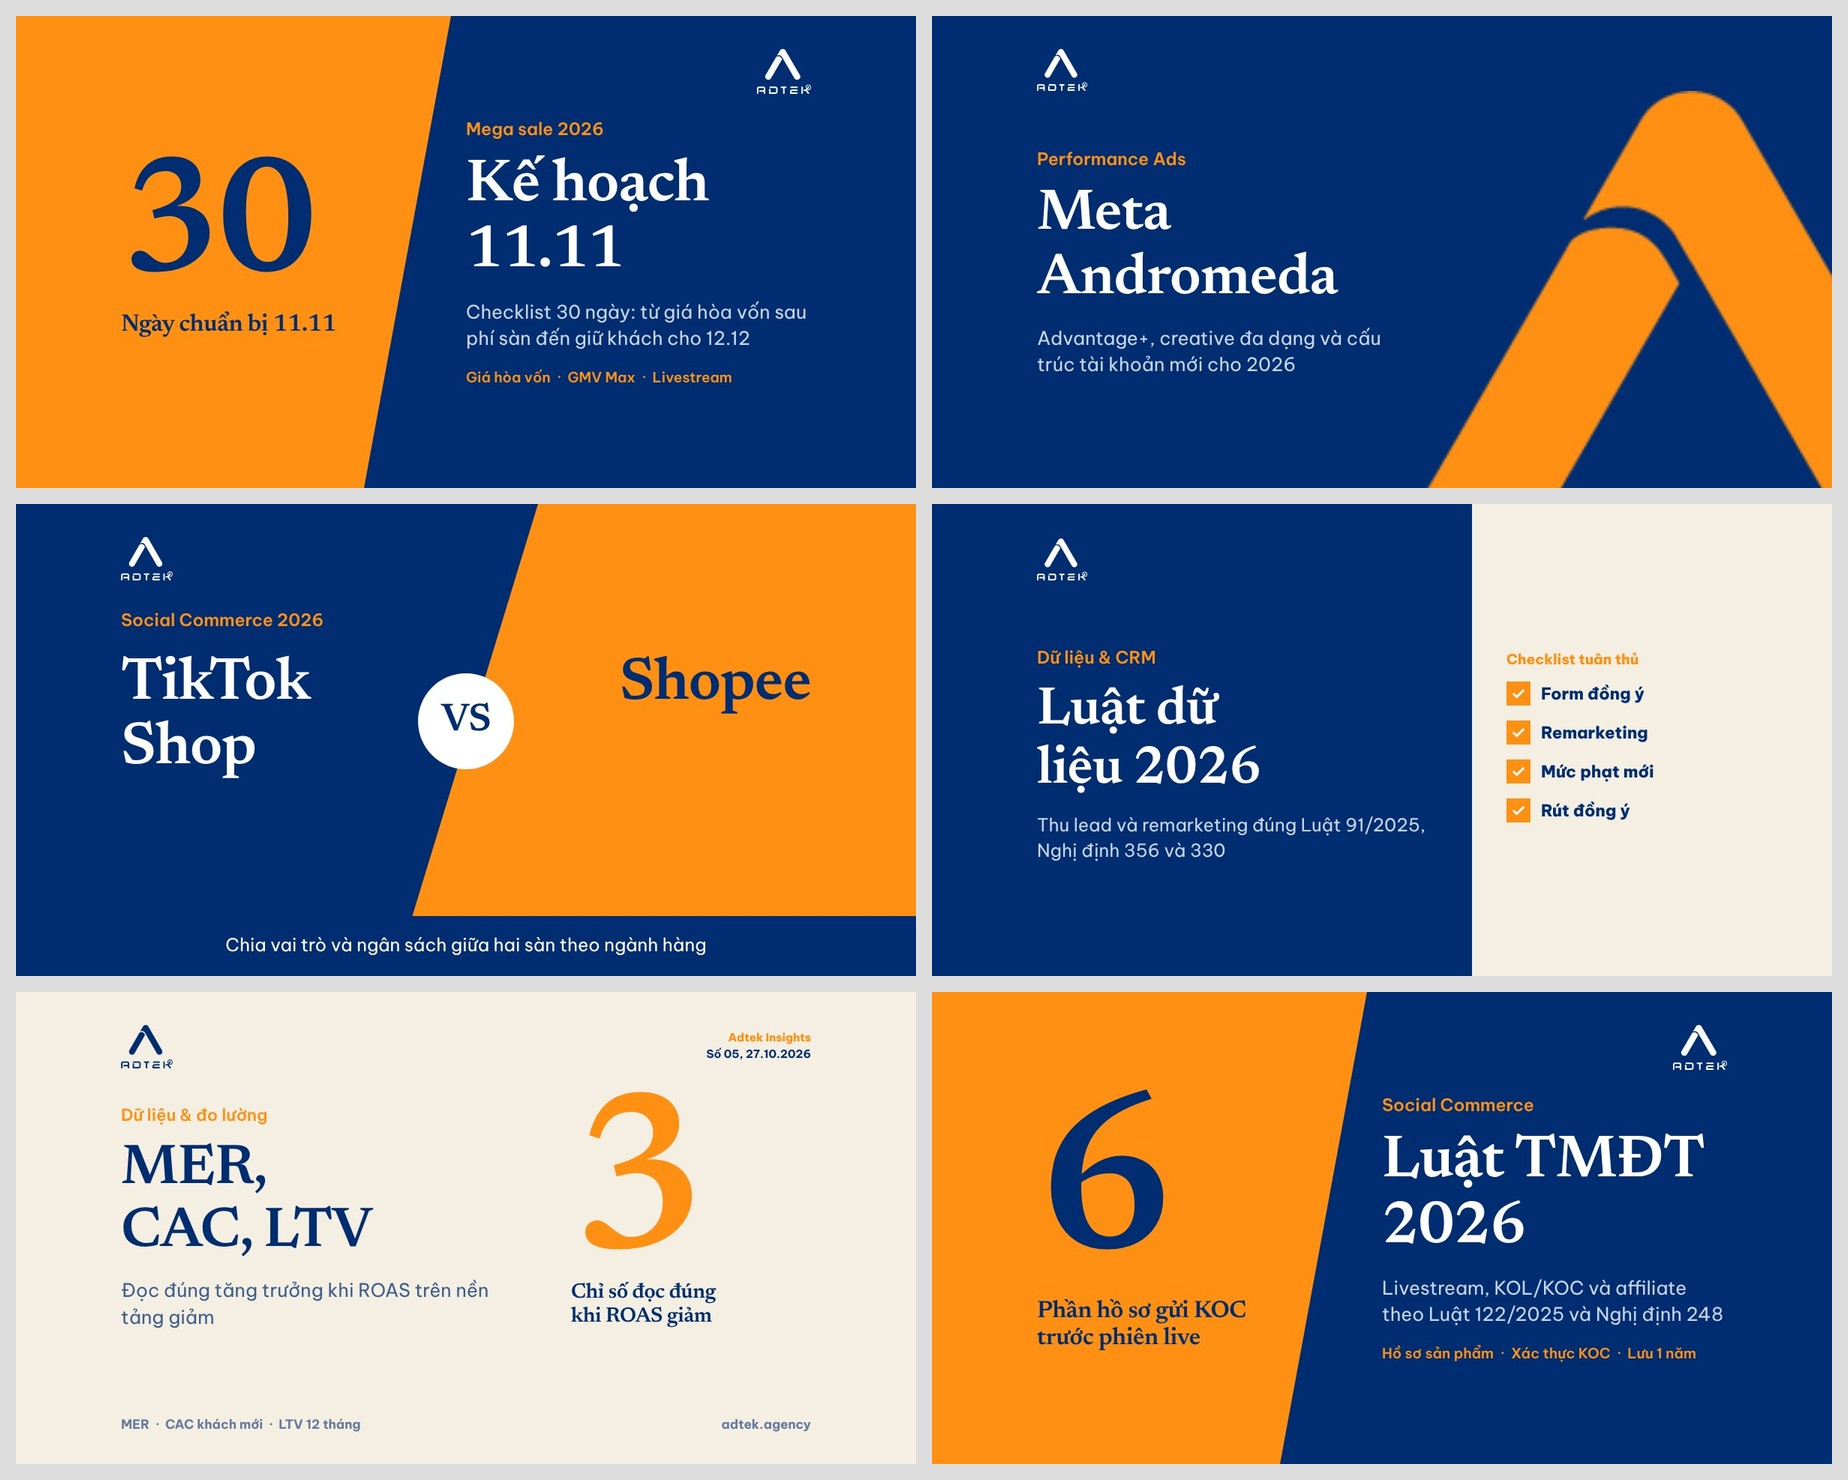
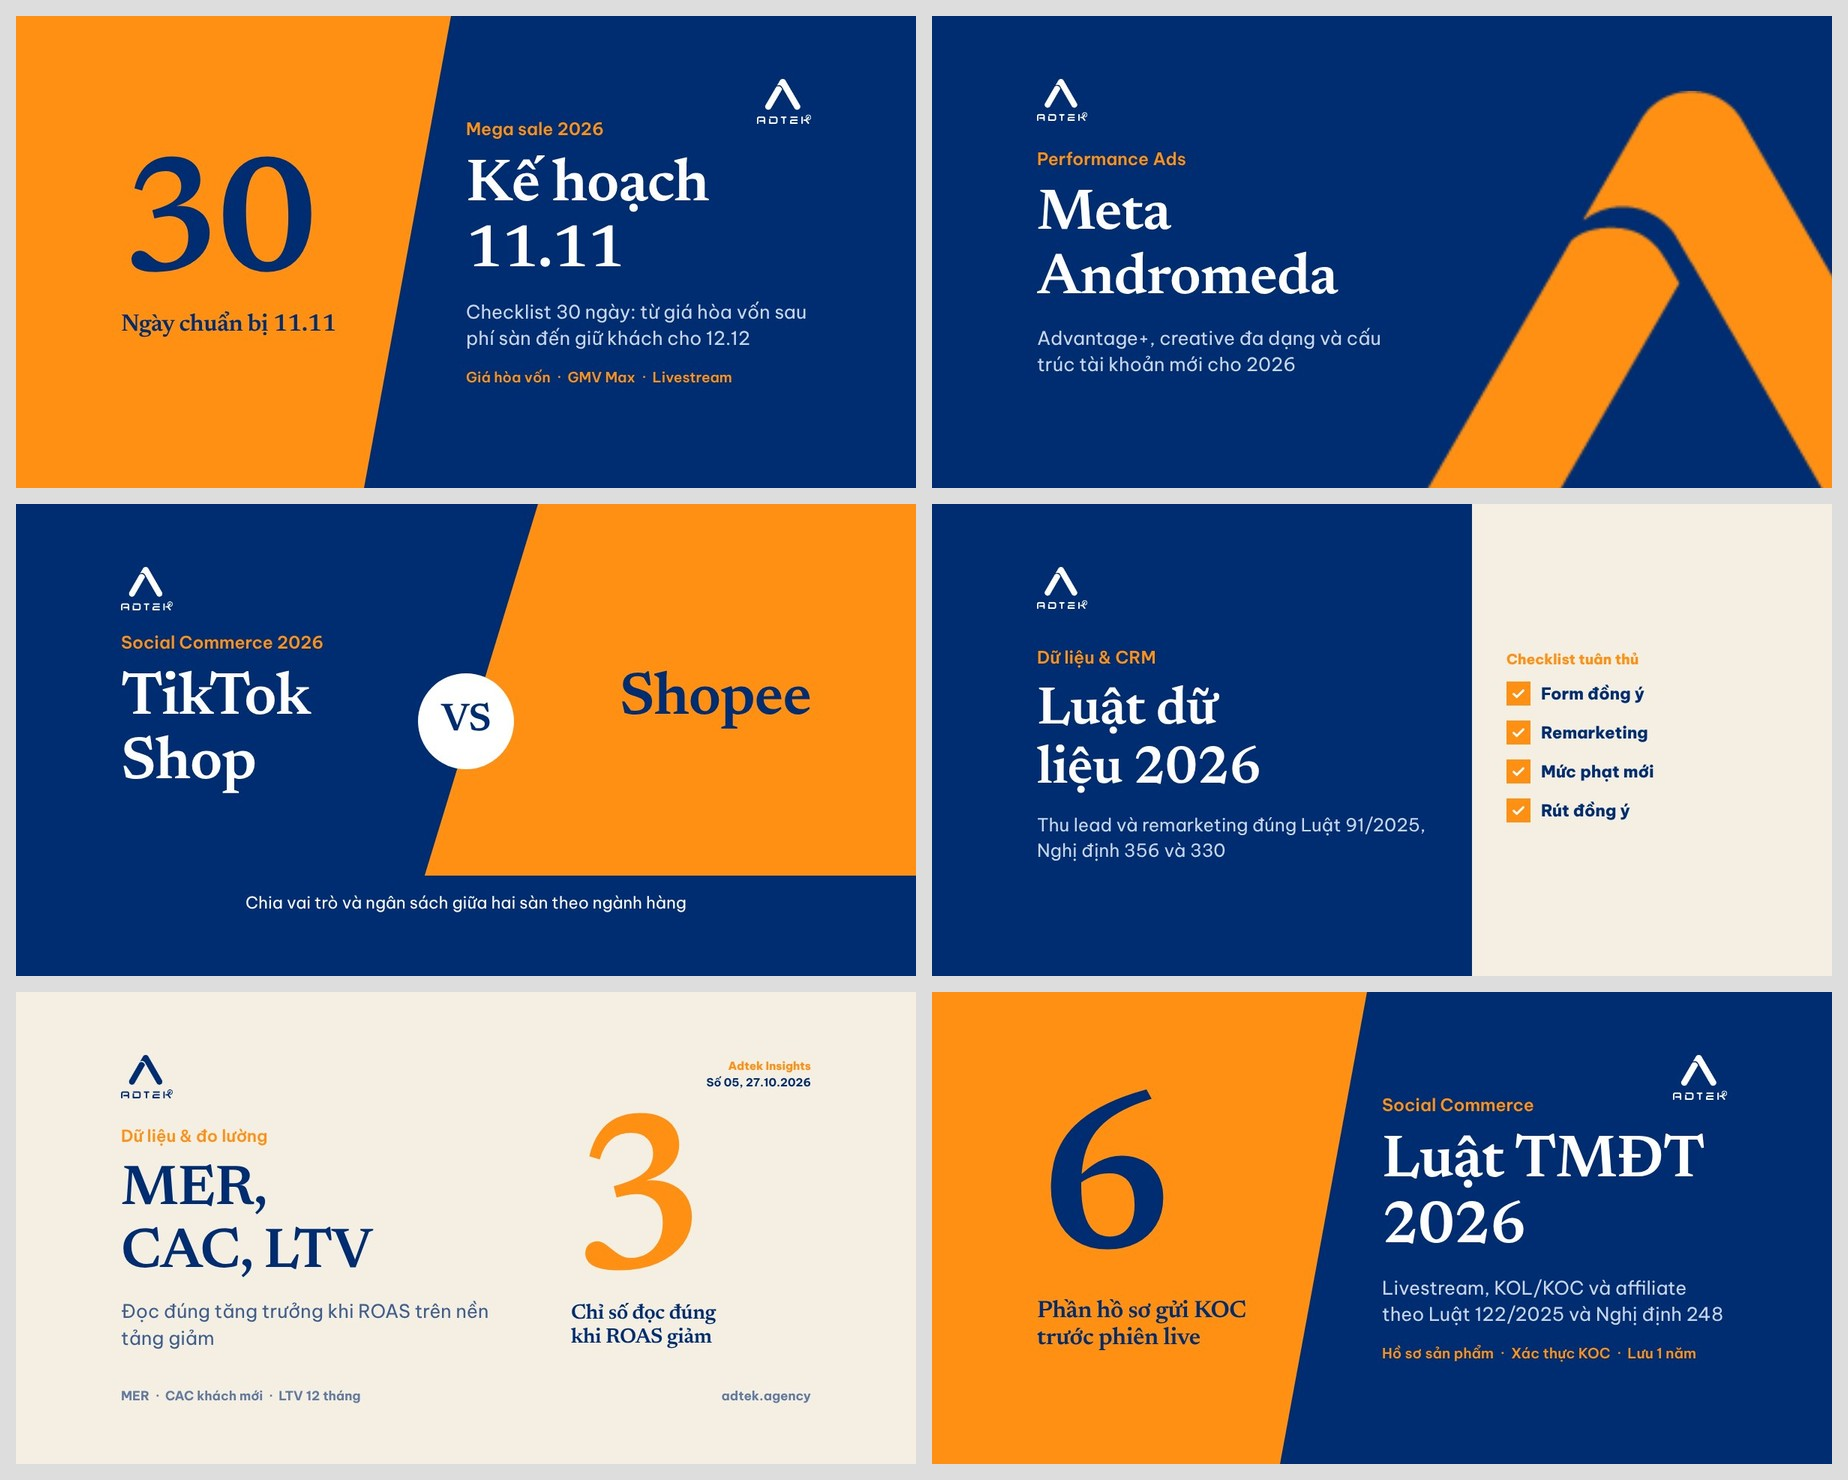
Blog covers: vertical safe zone for the 870x362 crop on /blog/
Claude-Session: https://claude.ai/code/session_01Wp8F7EosGPrY7v6XwBpRSM

diff --git a/tools/covers.py b/tools/covers.py
@@ -27,7 +27,8 @@ ROOT = Path(__file__).resolve().parent.parent
 ASSETS = ROOT / "tools/assets"
 SIZES = {"blog": (1200, 630), "fb": (1080, 1080)}
 # Khổ blog: trang danh sách bài của WordPress cắt giữa ảnh còn 370x250, mất khoảng 134px mỗi bên ảnh 1200x630.
-# Chữ và logo khổ ngang đặt cách mép trái phải ít nhất 140px; chỉ họa tiết được tràn ra ngoài vùng này.
+# Trang /blog/ cắt ảnh thành 870x362 (tỉ lệ 2.4:1), mất khoảng 65px ở mép trên và mép dưới.
+# Vùng an toàn cho chữ và logo khổ ngang: x 140 đến 1060, y 70 đến 560; chỉ họa tiết được tràn ra ngoài vùng này.
 NAVY, ORANGE, CREAM = "#002D72", "#FF9014", "#F4EEE3"
 esc = html.escape
 
@@ -167,14 +168,14 @@ h1{{line-height:1.12}}
 .sq h1{{font-size:104px;margin:-.12em 0 24px;max-height:3.4em}}
 .sq .sub{{font-size:34px;max-width:860px;max-height:3em}}
 .sq .foot{{left:72px;right:72px;bottom:64px;font-size:22px}}
-.ls .lg{{position:absolute;left:140px;top:44px}}.ls .meta{{right:140px;top:50px;font-size:15px}}
-.ls .copy{{left:140px;top:150px;width:520px}}
+.ls .lg{{position:absolute;left:140px;top:84px}}.ls .meta{{right:140px;top:88px;font-size:15px}}
+.ls .copy{{left:140px;top:178px;width:520px}}
 .ls .kicker{{font-size:22px}}
 .ls h1{{font-size:76px;margin:10px 0 16px;max-height:2.3em}}
 .ls .sub{{font-size:25px;max-height:4.4em}}
-.ls .unit{{left:740px;right:140px;top:150px}}
+.ls .unit{{left:740px;right:140px;top:178px}}
 .ls .cap{{font-size:28px}}
-.ls .foot{{left:140px;right:140px;bottom:42px;font-size:17px}}"""
+.ls .foot{{left:140px;right:140px;bottom:80px;font-size:17px}}"""
     body = f"""<div class="lg">{logo(NAVY, 78 if sq else 58)}</div><div class="meta"><b>Adtek Insights</b><br>Số {f['no']:02d}, {f['date']}</div>
 {main}<div class="foot"><div>{chips}</div><div>adtek.agency</div></div>"""
     return css, body
@@ -211,7 +212,7 @@ body{{background:{NAVY};color:#fff}}
 .num{{font-size:{hero}px;line-height:.8;color:{NAVY};white-space:nowrap}}
 .cap{{margin-top:16px;font-size:32px;line-height:1.12;color:{NAVY};max-height:3.4em}}
 .copy{{position:absolute;left:600px;right:140px;top:0;bottom:0;display:flex;flex-direction:column;justify-content:center}}
-.lg{{position:absolute;right:140px;top:44px}}
+.lg{{position:absolute;right:140px;top:84px}}
 .kicker{{color:{ORANGE};font-size:23px}}
 h1{{font-size:80px;line-height:1.1;margin:10px 0 16px;max-height:2.3em}}
 .sub{{font-size:25px;line-height:1.4;color:#C9D6EE;max-height:4.3em}}
@@ -244,7 +245,7 @@ h1{{font-weight:900;line-height:1.12;letter-spacing:-.01em}}
 .sq .sub{{font-size:32px;max-height:4.3em;max-width:600px}}
 .sq .site{{left:72px;bottom:64px;font-size:22px}}
 .ls .big{{height:760px;right:-240px;bottom:-230px}}
-.ls .lg{{left:140px;top:44px}}
+.ls .lg{{left:140px;top:84px}}
 .ls .copy{{position:absolute;left:140px;top:0;bottom:0;width:500px;display:flex;flex-direction:column;justify-content:center;padding-top:30px}}
 .ls .kicker{{font-size:23px}}
 .ls h1{{font-size:78px;margin:10px 0 16px;max-height:2.3em}}
@@ -280,7 +281,7 @@ h1{{flex:1;font-size:74px;line-height:1.12;max-height:4.5em}}
     css = f"""
 body{{background:{CREAM};color:{NAVY}}}
 .top{{position:absolute;left:0;top:0;bottom:0;width:740px;padding:0 60px 0 140px;background:{NAVY};color:#fff;display:flex;flex-direction:column;justify-content:center}}
-.lg{{position:absolute;left:140px;top:44px}}
+.lg{{position:absolute;left:140px;top:84px}}
 .kicker{{color:{ORANGE};font-size:23px}}
 h1{{font-size:80px;line-height:1.12;margin:10px 0 16px;max-height:2.3em}}
 .sub{{font-size:24px;line-height:1.42;color:#C9D6EE;max-height:4.3em}}
@@ -313,7 +314,7 @@ h1{{line-height:1.1}}
 .sq .sub{{font-size:32px;max-height:2.9em;margin-left:8px}}
 .ls{{--hero:{420 if n == 1 else 330 if n == 2 else 220}px}}
 .ls .corner{{width:380px;height:380px;right:-110px;top:-150px}}
-.ls .lg{{right:140px;top:46px}}
+.ls .lg{{right:140px;top:84px}}
 .ls .copy{{position:absolute;left:140px;right:140px;top:0;bottom:0;display:flex;align-items:center;gap:44px}}
 .ls .num{{flex:none}}
 .ls .text{{flex:1}}
@@ -350,11 +351,11 @@ display:flex;align-items:center;justify-content:center;font-weight:900;letter-sp
 .sq .nb{{right:72px;top:640px;width:420px;font-size:96px;max-height:2.3em}}
 .sq .vs{{width:170px;height:170px;font-size:70px;top:52%}}
 .sq .band{{left:0;right:0;bottom:0;padding:34px 72px 40px;font-size:36px;max-height:4.4em}}
-.ls .lg{{left:140px;top:44px}}.ls .kicker{{left:140px;top:140px;font-size:23px}}
-.ls .na{{left:140px;top:190px;width:360px;font-size:80px;max-height:2.3em}}
-.ls .nb{{right:140px;top:190px;width:360px;font-size:80px;max-height:2.3em}}
+.ls .lg{{left:140px;top:84px}}.ls .kicker{{left:140px;top:170px;font-size:23px}}
+.ls .na{{left:140px;top:210px;width:360px;font-size:80px;max-height:2.3em}}
+.ls .nb{{right:140px;top:210px;width:360px;font-size:80px;max-height:2.3em}}
 .ls .vs{{width:128px;height:128px;font-size:52px;top:46%}}
-.ls .band{{left:0;right:0;bottom:0;text-align:center;padding:22px 160px 26px;font-size:24px;max-height:3.8em}}"""
+.ls .band{{left:0;right:0;bottom:0;text-align:center;padding:22px 160px 84px;font-size:24px;max-height:5.6em}}"""
     cap = html.unescape(f["cap"])
     if cap[1:2].islower() and cap.split()[0] not in src:  # "Sàn, chia..." đọc liền sau số: "2 sàn, chia..."
         cap = cap[0].lower() + cap[1:]
@@ -384,7 +385,7 @@ h1{{font-weight:900;line-height:1.12}}
 .sq .kicker{{font-size:30px}}.sq h1{{font-size:86px;margin:12px 0 16px;max-height:2.3em}}.sq .sub{{font-size:30px;max-height:4.3em}}
 .sq .paper{{left:72px;right:72px;bottom:0;height:430px;padding:46px 56px}}
 .sq .paper h5{{font-size:26px;margin-bottom:10px}}.sq .paper li{{font-size:32px;gap:22px;padding:13px 0}}.sq .paper li b{{width:44px;height:44px;padding:7px}}
-.ls .lg{{position:absolute;left:140px;top:46px}}
+.ls .lg{{position:absolute;left:140px;top:84px}}
 .ls .copy{{position:absolute;left:140px;width:520px;top:0;bottom:0;display:flex;flex-direction:column;justify-content:center;padding-top:40px}}
 .ls .kicker{{font-size:23px}}.ls h1{{font-size:72px;margin:10px 0 14px;max-height:2.3em}}.ls .sub{{font-size:24px;max-height:4.3em}}
 .ls .paper{{left:720px;right:0;top:0;bottom:0;padding:0 140px 0 46px;display:flex;flex-direction:column;justify-content:center}}

diff --git a/content/editorial/README.md b/content/editorial/README.md
@@ -6,7 +6,7 @@ Lịch đăng, cụm chủ đề và danh sách bài nằm trong `calendar.json`
 
 - 2 bài/tuần, mỗi bài khoảng 2,000 chữ, đăng Thứ Ba và Thứ Năm. Giờ đăng không cố định: mỗi bài chọn ngẫu nhiên khung 12:00-12:59 hoặc 20:00-20:59 (trường `time` trong `calendar.json`, gán bằng `python3 tools/blog_post.py retime` cho bài chưa đăng).
 - Mỗi bài cần có một phần chỉ Adtek viết được: mini-case ẩn danh, số liệu từ dự án, khung hoặc checklist dùng ngay.
-- Tác giả Tin Le, có SEO title, meta description và ảnh bìa. Ảnh bìa blog (1200x630, `python3 tools/blog_post.py cover X`) và ảnh Facebook (1:1, `python3 tools/fb_post.py cover X`) dựng từ bộ mẫu `tools/covers.py`: 7 phong cách thiết kế phẳng, chỉ dùng màu navy, cam, kem của Adtek, không đường kẻ hay gạch chân, không gradient, quầng sáng, kính mờ, bóng đổ (anh Tin yêu cầu 16/10/2026: không giống ảnh AI): tạp chí nền kem, khối cam navy cắt chéo, chữ A Adtek cỡ lớn, hai tầng màu có đĩa số cam, áp phích nền cam; đối đầu A vs B cho bài so sánh, hồ sơ pháp lý cho bài luật. Mẫu tím neon 3D cũ chỉ dùng khi ghi tay `cover.style`. Chữ: tiêu đề và con số lớn dùng Newsreader 600 (chữ có chân kiểu báo chí, viết thường như câu), nhãn và mô tả dùng Be Vietnam Pro 400 đến 600; không dùng chữ in hoa giãn khoảng cho tiêu đề. Con số lớn (`cover.hero`) luôn đứng sát cụm chữ đi kèm (`cover.hero_text`) và đứng trước theo thứ tự đọc: bên trái hoặc phía trên cụm chữ, không đặt số một nơi, chữ một nẻo. Lần dựng đầu, hệ thống tự chọn phong cách theo nội dung (phương án A anh Tin chọn 16/10/2026): bài có "vs" trong `cover.title` dùng mẫu đối đầu, bài luật dùng mẫu hồ sơ (nếu 2 bài liền trước chưa dùng), còn lại xoay vòng 5 mẫu chung và tránh 3 bài liền trước; phong cách được ghi vào `cover.style` để dựng lại vẫn giữ nguyên, muốn đổi thì sửa tay trường này. Dữ liệu ảnh: `cover.kicker`, `title`, `subtitle`, `chips` (blog) và `hero`, `hero_text`, `fb_kicker` (Facebook, một số mẫu blog cũng dùng số `hero`). Chữ trên ảnh blog nằm cách mép trái phải 140px vì trang danh sách bài cắt giữa ảnh. Xem thử mọi phong cách cho một bài: `python3 tools/covers.py sheet X`. Đổi ảnh bìa bài đã đưa lên WordPress: `python3 tools/blog_post.py recover X [--delete-old]`. Ảnh do phiên "Adtek - Designer" dựng và commit; phiên "Adtek - Blog post" chỉ tải lên (`recover` dùng đúng file có sẵn).
+- Tác giả Tin Le, có SEO title, meta description và ảnh bìa. Ảnh bìa blog (1200x630, `python3 tools/blog_post.py cover X`) và ảnh Facebook (1:1, `python3 tools/fb_post.py cover X`) dựng từ bộ mẫu `tools/covers.py`: 7 phong cách thiết kế phẳng, chỉ dùng màu navy, cam, kem của Adtek, không đường kẻ hay gạch chân, không gradient, quầng sáng, kính mờ, bóng đổ (anh Tin yêu cầu 16/10/2026: không giống ảnh AI): tạp chí nền kem, khối cam navy cắt chéo, chữ A Adtek cỡ lớn, hai tầng màu có đĩa số cam, áp phích nền cam; đối đầu A vs B cho bài so sánh, hồ sơ pháp lý cho bài luật. Mẫu tím neon 3D cũ chỉ dùng khi ghi tay `cover.style`. Chữ: tiêu đề và con số lớn dùng Newsreader 600 (chữ có chân kiểu báo chí, viết thường như câu), nhãn và mô tả dùng Be Vietnam Pro 400 đến 600; không dùng chữ in hoa giãn khoảng cho tiêu đề. Con số lớn (`cover.hero`) luôn đứng sát cụm chữ đi kèm (`cover.hero_text`) và đứng trước theo thứ tự đọc: bên trái hoặc phía trên cụm chữ, không đặt số một nơi, chữ một nẻo. Lần dựng đầu, hệ thống tự chọn phong cách theo nội dung (phương án A anh Tin chọn 16/10/2026): bài có "vs" trong `cover.title` dùng mẫu đối đầu, bài luật dùng mẫu hồ sơ (nếu 2 bài liền trước chưa dùng), còn lại xoay vòng 5 mẫu chung và tránh 3 bài liền trước; phong cách được ghi vào `cover.style` để dựng lại vẫn giữ nguyên, muốn đổi thì sửa tay trường này. Dữ liệu ảnh: `cover.kicker`, `title`, `subtitle`, `chips` (blog) và `hero`, `hero_text`, `fb_kicker` (Facebook, một số mẫu blog cũng dùng số `hero`). Chữ và logo trên ảnh blog nằm trong vùng x 140 đến 1060, y 70 đến 560 vì theme cắt ảnh: thẻ 370x250 mất hai bên, trang /blog/ 870x362 mất khoảng 65px trên và dưới. Xem thử mọi phong cách cho một bài: `python3 tools/covers.py sheet X`. Đổi ảnh bìa bài đã đưa lên WordPress: `python3 tools/blog_post.py recover X [--delete-old]`. Ảnh do phiên "Adtek - Designer" dựng và commit; phiên "Adtek - Blog post" chỉ tải lên (`recover` dùng đúng file có sẵn).
 
 ## Quy trình viết và duyệt
 

diff --git a/logs/changelog.md b/logs/changelog.md
@@ -77,3 +77,4 @@
 | 2026-10-16 | Theo góp ý của anh Tin: con số lớn và cụm chữ đi kèm phải đọc liền, số đứng bên trái hoặc phía trên chữ. Làm lại bố cục mẫu tạp chí, khối cắt chéo, hai tầng màu, áp phích: số và cụm chữ thành một khối sát nhau; khổ blog có tiêu đề riêng thì khối số và chữ đặt riêng một cột (số trên, chữ dưới). Dựng lại ảnh bìa blog bài 1 đến 6, ảnh Facebook bài 5, 6 và bản đề xuất bài 1 đến 4 | tools/covers.py, content/posts, previews/covers | Chờ anh Tin duyệt |
 | 2026-10-16 18:12 | Anh Tin duyệt ảnh bìa blog bài 1 đến 6 (commit ce27e81) và cho thay ảnh Facebook bài 1 đến 4 bằng mẫu mới: ghi đè content/posts/<slug>-fb.jpg bài 1 (khối cắt chéo), 2 (chữ A), 3 (đối đầu), 4 (checklist pháp lý), giống hệt bản đề xuất anh đã xem. Lịch đăng Facebook giữ nguyên, phiên đăng Facebook pull nhánh trước khi đăng nên dùng ảnh mới. Đã báo phiên Blog post chạy recover bài 1 đến 6 | content/posts, previews/covers | Đã duyệt, chờ tải ảnh bìa lên WordPress |
 | 2026-10-16 11:40 | Tải ảnh bìa blog bản anh Tin duyệt (phiên Designer, commit 8d3934e) lên WordPress bài 1-6: media 6119, 6120, 6121, 6122, 6124, 6126; xóa ảnh cũ 6118, 6116, 6117, 6095, 6111, 6113. Kiểm tra trang /blog/: theme cắt ảnh đại diện còn 870x362 làm mất khoảng 65px mép trên và dưới (logo góc trên bị cắt), đã báo phiên Designer vùng an toàn x 140-1060, y 70-560 | Bài 6086, 6088, 6093, 6096, 6112, 6114 | Đã áp dụng |
+| 2026-10-16 18:30 | Phiên Blog post báo trang /blog/ cắt ảnh đại diện thành 870x362, mất khoảng 65px trên và dưới (logo bài 1 bị cắt nửa). Thêm vùng an toàn chiều dọc y 70 đến 560 cho khổ blog: dời logo, nhãn số bài, chân trang, dải mô tả mẫu đối đầu vào trong. Dựng lại ảnh bìa blog bài 1 đến 6, bố cục và kiểu chữ giữ nguyên bản anh Tin đã duyệt; ảnh Facebook không đổi | tools/covers.py, content/posts, README | Chờ phiên Blog post tải lại |
